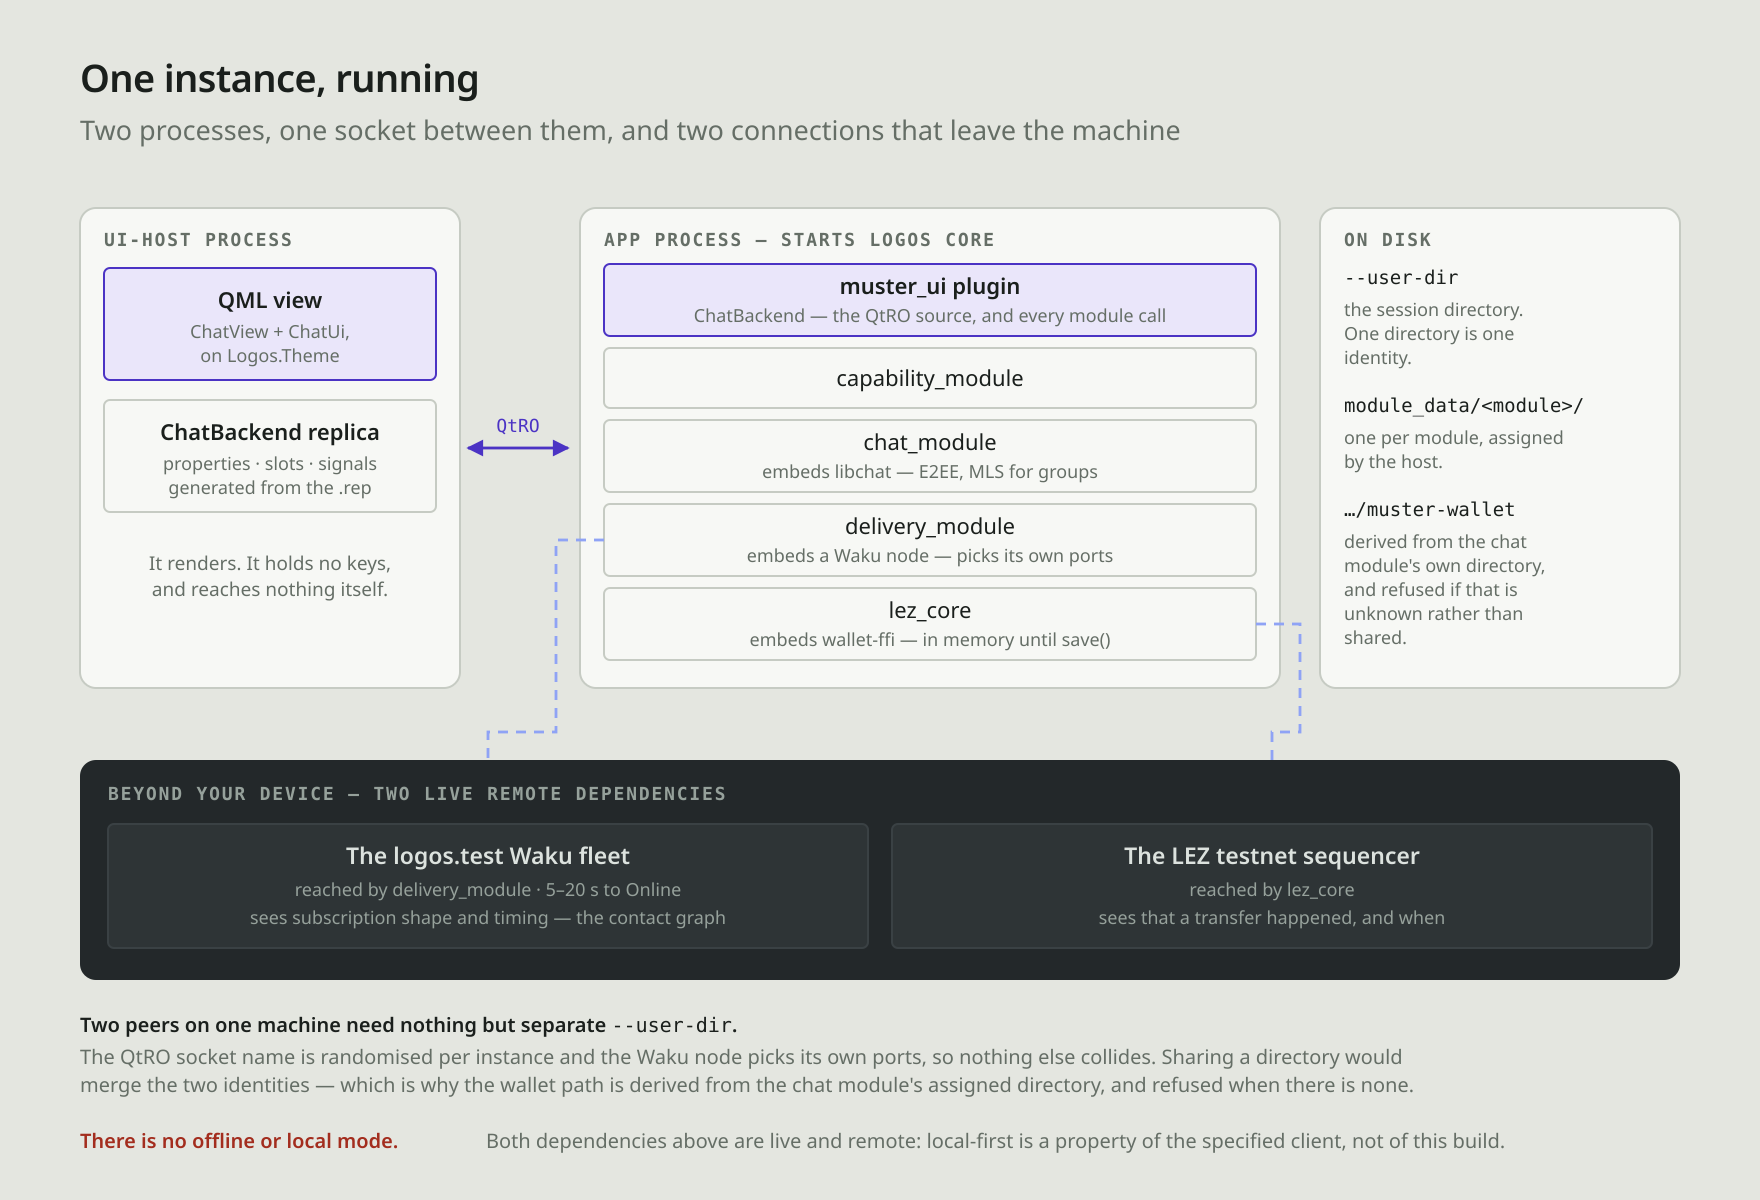
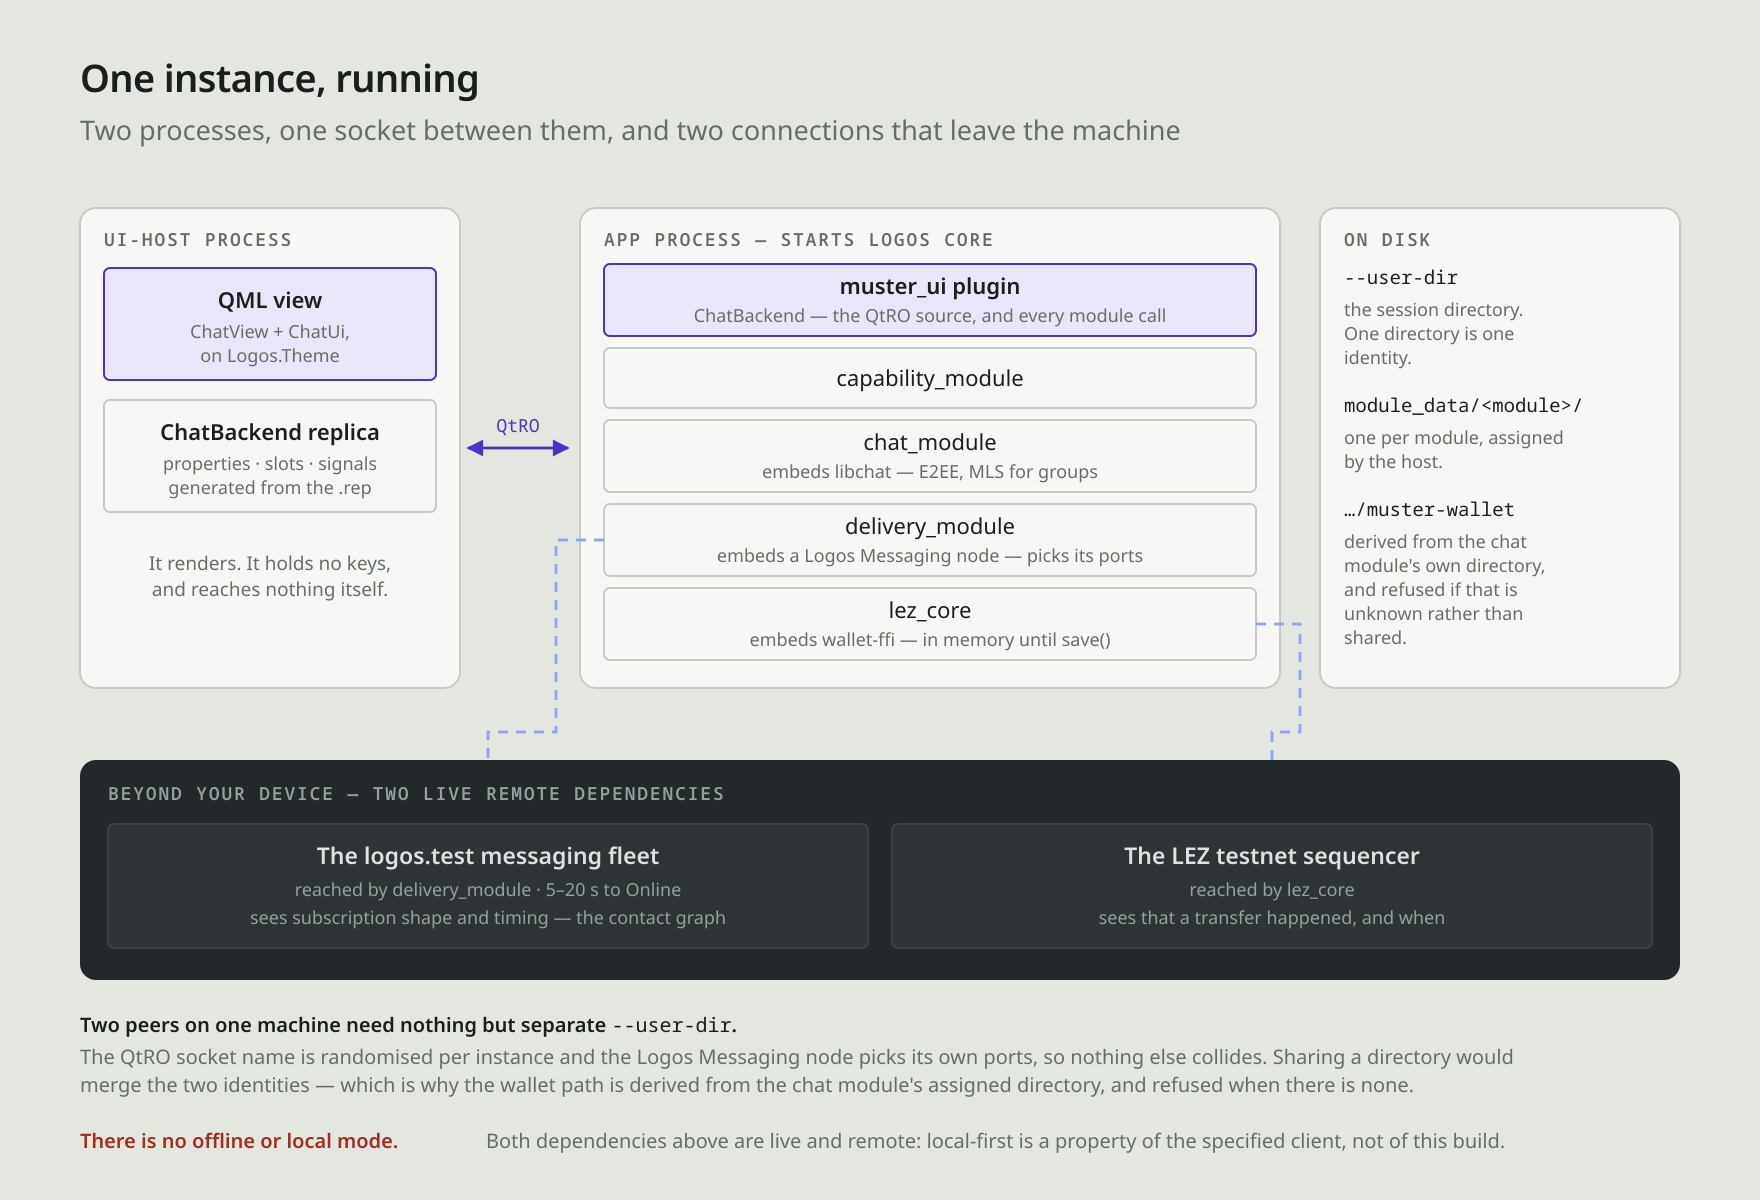
Add the private-to-private transfer-flow figure, and retire the Waku name
Draw pipeline-private-transfer-flow — the flow companion to the
substrate-pipeline keystone. Where the keystone tables the seven stages
against infrastructure, this walks one private→private payment down the
real stack in six steps (open room · ask · share key · agree · pay ·
settle), marking at each hop what leaves the device and whether the store
node or the zone learns it. Grounded in ChatBackendWallet.cpp's method
path and demo/CLAUDE.md's rules; registered in the manifest with sourced
evidence and a Family B catalogue row.

Retire "Waku" — the name is dropped in favour of Logos Messaging, the
messaging stack of Logos. Rename every prose/label occurrence across the
diagram set (arch-instance-topology, substrate-stack + its re-exported
frames, README), the implementation plan, and the demo docs. logos.test
and the logos-delivery-module repo URLs stay as they are.

check-manifest passes clean; index and affected PNGs re-rendered.

TDD-Exempt: docs and diagrams only — a new figure, a naming rename across prose/labels, and regenerated artefacts; no code behavior to test. The diagram provenance gate (check-manifest) is the relevant check and passes.

Session-Id: 73a54fb8-3d11-4adb-bc39-541f4dc2a0a8

diff --git a/docs/diagrams/index.html b/docs/diagrams/index.html
@@ -140,6 +140,15 @@ content is measured, read from source, or illustrative.</p>
     <p class="lede">Seven stages, the infrastructure that runs each, and who is positioned to see what.</p>
     <ul class="cards">
       <li class="card">
+        <a class="thumb" href="pipeline-private-transfer-flow.svg"><img src="pipeline-private-transfer-flow.png" alt="" loading="lazy"></a>
+        <div class="meta">
+          <h3><a href="pipeline-private-transfer-flow.svg">A private-to-private transfer, traced through the Logos stack</a></h3>
+          <p>A private-to-private transfer traced step by step through the real stack components — chat_module and delivery_module for the conversation and the address exchange, lez_core for the shielded value — with, at each hop, what leaves the device and which outside party (the store node, the zone) learns it. The flow companion to the substrate-pipeline keystone: where that correlates stages to infrastructure as a table, this walks one payment down the stack and marks the leak at every step.</p>
+          <p class="tags"><span class="s s-both">BOTH</span><span class="g g-measured">measured</span><span class="g g-from-source">from source</span>
+            <a class="src" href="https://github.com/corpetty/muster/blob/main/docs/diagrams/pipeline-private-transfer-flow.svg">source</a></p>
+        </div>
+      </li>
+      <li class="card">
         <a class="thumb" href="pipeline-three-leaks.svg"><img src="pipeline-three-leaks.png" alt="" loading="lazy"></a>
         <div class="meta">
           <h3><a href="pipeline-three-leaks.svg">Three kinds of leak, and why collapsing them is the mistake</a></h3>

diff --git a/docs/diagrams/substrate-stack.html b/docs/diagrams/substrate-stack.html
@@ -479,7 +479,7 @@
         <g class="bc-node" data-id="delivery">
           <rect x="600" y="402" width="132" height="42" rx="3"/>
           <text x="666" y="416">delivery_module</text>
-          <text x="666" y="430" class="bc-node-sub">embeds a Waku node</text>
+          <text x="666" y="430" class="bc-node-sub">embeds a Logos Messaging node</text>
         </g>
         <g class="bc-node" data-id="modules-lower-more">
           <rect x="742" y="402" width="40" height="42" rx="3"/>

diff --git a/docs/diagrams/README.md b/docs/diagrams/README.md
@@ -142,7 +142,7 @@ The fix is cheap because **the vocabulary already exists in the file**: `.bc-nod
 | | Change | Notes |
 |---|---|---|
 | Facts | Add `muster-ui` (UI plugin), `muster_module`, and for the demo build `lez_core` | The LEZ node is already there and close enough to reuse |
-| Facts | Nothing represents `capability_module`, the `ui-host` process split, or the Waku node embedded in delivery | Correct as-is — this is a **layer** diagram, not a **process** diagram. Those facts belong to `arch-instance-topology`. Keep the two from blurring |
+| Facts | Nothing represents `capability_module`, the `ui-host` process split, or the Logos Messaging node embedded in delivery | Correct as-is — this is a **layer** diagram, not a **process** diagram. Those facts belong to `arch-instance-topology`. Keep the two from blurring |
 | Style | Re-skin to the prototype tokens (§1.1) | Cheap: everything is already on `--bc-*` custom properties. Body font, page chrome and the red/green/blue/amber accents all go |
 | Style | No equivalent of the dark-ground-means-outside-the-boundary convention | Needs adding if the pipeline views are to sit beside fig3 |
 | A11y | Three infinite animations (`bc-blink`, `bc-flow-dash`, autoplay every 4.5s) with no `prefers-reduced-motion` | U-10 obligation. Autoplay that reflows the caption on a timer also needs a pause control (WCAG 2.2.2) |
@@ -161,7 +161,7 @@ Three substrates absorb roughly a third of the catalogue:
 
 ## 4. Catalogue
 
-Thirty entries in four families. Each names what it shows, who it serves, what it derives from, and what it must not claim. Entries marked **▣** are views of a shared interactive substrate (§3.4) rather than standalone figures.
+Thirty-one entries in four families. Each names what it shows, who it serves, what it derives from, and what it must not claim. Entries marked **▣** are views of a shared interactive substrate (§3.4) rather than standalone figures.
 
 ### Family A — Deployment, packaging and module boundaries
 
@@ -170,7 +170,7 @@ The set that makes the basecamp/standalone work tractable. Almost all of it is [
 | Id | Shows | Serves | Derived from | Must not claim |
 |---|---|---|---|---|
 | **arch-three-hosts** ▣ | One module set, three hosts: `logoscore` headless, standalone app, basecamp-hosted. What is identical (the module set, the contract surface, per-instance state) and what genuinely differs (who owns the event loop, who supplies the QML host, how the UI plugin is discovered) | **BOTH** | `02-implementation-plan.md` §stack decisions; chat-ui README "How to Run"; `metadata.json` | That basecamp-hosted is *shipping* for Muster. Today it is the chat-ui fork's path and Muster's target |
-| **arch-instance-topology** | One running standalone instance, drawn honestly: the core process, `capability_module`, `chat_module` (embedding libchat), `delivery_module` (embedding a Waku node, joined to `logos.test`), `lez_core` (embedding wallet-ffi, pointed at the LEZ testnet sequencer), the isolated `ui-host` process, and the QtRO socket between backend and QML replica | **BOTH** | chat-ui README; `demo/muster-ui/metadata.json`; `demo/CLAUDE.md` | That anything here is local-only. **Two live remote dependencies** cross the process boundary and the figure should draw them crossing it |
+| **arch-instance-topology** | One running standalone instance, drawn honestly: the core process, `capability_module`, `chat_module` (embedding libchat), `delivery_module` (embedding a Logos Messaging node, joined to `logos.test`), `lez_core` (embedding wallet-ffi, pointed at the LEZ testnet sequencer), the isolated `ui-host` process, and the QtRO socket between backend and QML replica | **BOTH** | chat-ui README; `demo/muster-ui/metadata.json`; `demo/CLAUDE.md` | That anything here is local-only. **Two live remote dependencies** cross the process boundary and the figure should draw them crossing it |
 | **arch-module-graph** | The `.lgx` dependency graph: declared `dependencies`, the `dependency_overrides` indirection (delivery's LIDL sourced *through* chat_module), and which edges are build-pinned versus runtime-resolved | BUILD | `demo/muster-ui/metadata.json`; `demo/muster-ui/flake.nix` inputs | That the graph is stable. `flake.follows` chains make several of these edges a version-lockstep decision, not an architectural one |
 | **arch-demo-vs-spec** | The two builds side by side at the same scale: `demo/` (forked chat-ui + composed upstream modules, no log, no signing paths of our own) against specified Muster (`muster-module.lgx` Nim/LIDL core + `muster-ui.lgx`). Same host, same sockets, different insides | **BOTH** | `demo/README.md` invariant table; `02-implementation-plan.md` §repository layout | That the demo is an early version of the spec build. It is a **deliberate departure**, and the figure's caption has to say so or it will be screenshotted out of context |
 | **arch-contract-seam** | What is generated and what is hand-written, on both sides. `muster.lidl` → `lidl_c.h` JSON bridge → Nim codegen → generated surface; `metadata.json#codegen` → `mkLogosQmlModule` → plugin entry + QtRO glue. The hand-written region is small and clearly bounded | **BOTH** | `CLAUDE.md` §pattern sources; `02-implementation-plan.md` ADR-008; `metadata.json#codegen` | That the Nim backend exists. It is P0's spike and the plan carries an explicit fallback |
@@ -186,6 +186,7 @@ The series' spine. Five exist; **pipeline-stack-correlation** is the significant
 |---|---|---|---|---|
 | **pipeline-seven-stages** | *(exists as fig1)* Seven stages, their leaks, the four before a transaction exists, the three the chain is in, the one the argument concentrates on | POST | PriFi competitor matrix cross-check | Conventional-stack examples are illustrative |
 | **pipeline-stack-correlation** ▣ | **The keystone.** Each of the seven stages against the concrete infrastructure that runs it — three columns: *what runs this stage conventionally and who operates it* (platform search, explorer + surveillance firm, chat host + quote infra, web frontend + wallet RPC, public mempool, ledger + indexers, identifiable producers) / *what runs it here* (nothing — out-of-band address; nothing at all; the encrypted room over `chat_module`+`delivery_module`; the local native client; the zone sequencer; the zone's shielded transfer; the zone's sequencer set) / *who still sees, and what.* This is the diagram the user asked for by name and the one that makes the architecture and privacy readings the same reading | **BOTH** | `GAPS.md`; supporting material §1–2; `arch-instance-topology` for the box names | The two "not assessed" cells (Ordering, Enforcement) stay unassessed here too. A figure is exactly where an unscored cell gets quietly filled in |
+| **pipeline-private-transfer-flow** | *(exists)* The keystone's **flow companion**: one private→private payment walked down the real stack — `chat_module`+`delivery_module` for the room and the address exchange, `lez_core` for the shielded value — as six steps (open room · ask · share key · agree · pay · settle), each marking what leaves the device and who learns it. Where the keystone tables stage against infrastructure, this traces the payment through it, making "the architecture diagram is the privacy diagram" literal for the post's second placeholder | **BOTH** | `ChatBackendWallet.cpp` (the method path); `demo/CLAUDE.md`; `GAPS.md`; `arch-instance-topology` for the box names | Ordering/mempool stays **not assessed**; the step-4 flag and the footer draw F-4/FS-6 and F-20 as specified-not-built, never as properties the demo has. The `~7-minute` prove and settle-poll are one machine's measurement — §5's "do not state as typical" applies |
 | **pipeline-self-assessment** | *(exists as fig5)* Muster ●/◑/○ on its own matrix, two cells unassessed | POST | Supporting material §2 | — |
 | **pipeline-observer-panel** ▣ | Extends fig3 from discovery to the **whole journey**: a column per observer (store node, the zone/sequencer, a chain reader, the peer, a compelled operator), a row per journey event, each cell what that observer learns. The honest answer includes several rows where the store node learns something | **BOTH** | `GAPS.md` §1–4; `WALKTHROUGH.md`; FS-9 | That any column is empty. Every observer learns *something* — a blank cell should mean "nothing", verified, not "not investigated" |
 | **pipeline-three-leaks** | Chosen by you / chosen by the stack for you / inherited by everyone. Named in the supporting material as "the most reusable idea in the post" and currently prose only. One example per class, drawn from this build: a published address, one-topic-per-conversation subscription shape, a two-user anonymity set | POST | Supporting material §T5, §11 | — |
@@ -326,6 +327,7 @@ Sixteen exported frames across the two substrates plus seven locator strips, eac
 
 | | |
 |---|---|
+| `pipeline-private-transfer-flow.svg` | One private→private payment traced down the stack in six steps, each hop marked with what leaves the device and who — the store node or the zone — learns it. The flow companion to the substrate-pipeline keystone, and the figure for the post's "private to private txn within the Logos stack" placeholder |
 | `pipeline-journey-timeline.svg` | Every step of one payment on a log axis, against the thresholds where an interaction stops being one — with the 20-second sync-client timeout drawn through the middle, which is why a call that had sat in the tree for a day had never once succeeded |
 | `pipeline-settlement-bug.svg` | The key node the recipient publishes, the identifier the sender picks, and the fresh account every payment therefore mints. Plus the trade that buys — no reusable identifier, and no balance you can look up — and the retraction of our own report of it as a bug, including why two independent measurements agreed and were both wrong |
 | `pipeline-findable-unlinkable.svg` | The fork the stack offers, with **which side is actually wired in marked on the column itself** — the earlier prose draft implied a UI that does not exist |

diff --git a/docs/02-implementation-plan.md b/docs/02-implementation-plan.md
@@ -179,7 +179,7 @@ Keycard signer backend over PC/SC (F-14). Logos Storage module as the artifact b
 - **ADR-007 Third-party plugin isolation** — capability-restricted `.lgx` modules under the platform's access policy. Post-v1.
 - **ADR-008 Module shape and dev host** — resolved, replacing the earlier `runtime_cli` decision. Muster is **contract-first**: `muster.lidl` is the module's public surface, the Nim core sits behind what it generates, and the module is built via `mkExternalLib` + logos-module-builder. The dev host is `logoscore` from P0, not poc2's `runtime_cli`. Rationale: the LOGOS-MODULE-* specs are unmerged draft and a spec-native module does not load in the host basecamp uses, so "build to the spec and both hosts are reachable" was false; meanwhile LIDL is the contract layer that actually ships, and it is deliberately language-neutral. Cost: there is no Nim SDK, so we write a codegen backend over `lidl_c.h`'s JSON bridge (`logos-rust-sdk/lidl-gen` is the worked example — ~106 lines of FFI, the rest language-specific emission). We take that cost because the alternative is a private convention where the platform has a published one, and because the backend is a clean contribution back. Fallback if the backend stalls: hand-write the generated surface for our own contract, keeping `muster.lidl` normative. Validated by the P0 loading spike.
 - **ADR-009 Encoding and schema identity** — resolved. Split the encoding requirement in two. *Determinism and domain separation* (same bytes in, same bytes out; every hash a domain-separated `hash-input` record) is a hard invariant from P0 — cheap now, and retrofitting it later would invalidate every signature already made. *Which profile derives schema identity* is versioned and swappable: v0 uses hand-assigned stable ids carried in a `profile` + `schema-id` field committed inside every signing payload, and cdCDDLe schema roots slot into that field later without a format migration. Rationale: nothing in the platform requires deterministic encoding — `logos-protocol`'s CBOR is non-canonical and interchangeable with JSON per-connection — so conformance to the draft profile buys future portability, not present correctness, while implementing a draft spec on a signing path risks both rework *and* a corpus of signatures under a superseded profile. Re-evaluate when the specs ratify, or the first time a second module must parse Muster events.
-- **ADR-010 Chat module build-vs-consume** — open, resolve at P3 start. `logos-chat-module` already does e2e-encrypted 1:1 and group chat over `delivery_module` (verified: it embeds no Waku node and calls delivery over the rust-sdk bus, which is the composition ADR-006 chose). Deciding questions: does its membership model re-key forward provably (F-16), can we verify that rather than trust it, does it leak signer identity in ways FS-7 forbids, and does it wire a *persistent* identity — `logos_chat::open()` mints an unpersisted account, and `chat-sqlite` has an `IdentityStore` the public facade does not use.
+- **ADR-010 Chat module build-vs-consume** — open, resolve at P3 start. `logos-chat-module` already does e2e-encrypted 1:1 and group chat over `delivery_module` (verified: it embeds no Logos Messaging node and calls delivery over the rust-sdk bus, which is the composition ADR-006 chose). Deciding questions: does its membership model re-key forward provably (F-16), can we verify that rather than trust it, does it leak signer identity in ways FS-7 forbids, and does it wire a *persistent* identity — `logos_chat::open()` mints an unpersisted account, and `chat-sqlite` has an `IdentityStore` the public facade does not use.
 
   **The curve conflict is the blocking issue, and it is confirmed at `logos-messaging/libchat` HEAD (2026-08-04).** `core/account/src/account.rs` holds `Ed25519SigningKey`/`Ed25519VerifyingKey` and derives `address()` as `hex::encode(verifying_key)`; `core/account/src/directory.rs` states it outright — "An Account (AccountAddress, an Ed25519 key) endorses a set of device keys." `core/crypto` is X25519 for DH and XEdDSA/Ed25519 for signatures. `secp256k1`/`k256` appear in the lockfile only as transitive `alloy` dependencies of `core/conversations`, never in the identity path.
 

diff --git a/demo/muster-ui/README.md b/demo/muster-ui/README.md
@@ -80,7 +80,7 @@ state apart; it defaults to the platform application data location.
 | `LOGOS_USER_DIR` | The standalone app's session directory, for when setting it by environment is easier than by flag. `--user-dir` wins over it. |
 | `QML_INSPECTOR_PORT` | Only needed when attaching the [logos-qt-mcp](https://github.com/logos-co/logos-qt-mcp) inspector to drive an instance programmatically (default 3768); give each a distinct one then. Interactive use does not need it. |
 
-Each node joins the `logos.test` Waku fleet and publishes its key package during
+Each node joins the `logos.test` messaging fleet and publishes its key package during
 init, so this needs internet and ~5-20s per window to reach **Online**. Then
 copy one window's address from its account card and paste it into another
 (**New chat > Direct message** for a 1:1, or **New chat > Group** then the members
@@ -218,14 +218,14 @@ tab is there and says so.
 | Qt6 Core, RemoteObjects, Declarative | UI framework + IPC |
 | [`logos-module-builder`](https://github.com/logos-co/logos-module-builder) | Build system (mkLogosQmlModule) |
 | [`logos-chat-module`](https://github.com/logos-co/logos-chat-module) | Chat backend module |
-| [`logos-delivery-module`](https://github.com/logos-co/logos-delivery-module) | Transport (Waku) — runtime dependency, pinned at v0.1.3 |
+| [`logos-delivery-module`](https://github.com/logos-co/logos-delivery-module) | Transport (Logos Messaging) — runtime dependency, pinned at v0.1.3 |
 
 ## Related Repositories
 
 | Repository | Role |
 |---|---|
 | [`logos-chat-module`](https://github.com/logos-co/logos-chat-module) | Chat backend — this UI's required dependency |
-| [`logos-delivery-module`](https://github.com/logos-co/logos-delivery-module) | Transport (Waku) — runtime dependency, pinned at v0.1.3 |
+| [`logos-delivery-module`](https://github.com/logos-co/logos-delivery-module) | Transport (Logos Messaging) — runtime dependency, pinned at v0.1.3 |
 | [`libchat`](https://github.com/logos-messaging/libchat) | Chat engine embedded by `chat_module` (E2EE, sessions) |
 | [`logos-module-builder`](https://github.com/logos-co/logos-module-builder) | Module build system |
 | [`logos-liblogos`](https://github.com/logos-co/logos-liblogos) | Logos Core platform |

diff --git a/demo/muster-ui/docs/two-instance-exchange.md b/demo/muster-ui/docs/two-instance-exchange.md
@@ -34,7 +34,7 @@ nix run . -- --user-dir ~/.local/share/chat_a
 nix run . -- --user-dir ~/.local/share/chat_b
 ```
 
-Both nodes join the `logos.test` Waku fleet (and publish their key packages to
+Both nodes join the `logos.test` messaging fleet (and publish their key packages to
 the key-package registry during `init`), so this needs internet and ~5-20s to
 reach **Online**. Then, in window A copy the address off the account card; in window B
 pick **New chat > Direct message** and paste A's address — the conversation opens on B's
